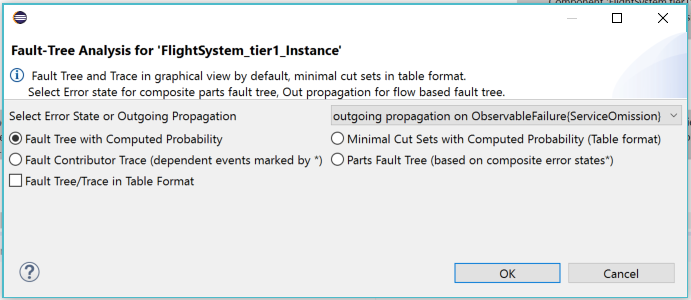
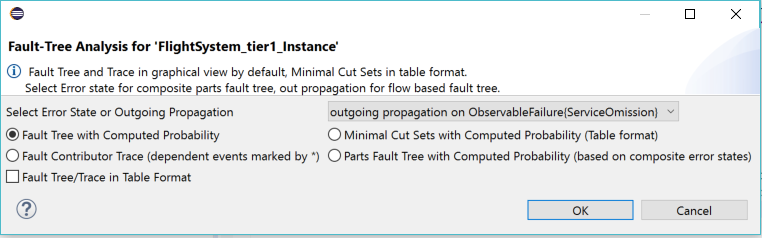
minor tweak in FTA dialog box.

Changed region(s): [[0.0, 0.0, 1.0, 1.0], [0.8205, 0.0588, 0.8509, 0.0882]]

diff --git a/emv2/org.osate.aadl2.errormodel.faulttree.generation/src/org/osate/aadl2/errormodel/faulttree/handler/FTADialog.java b/emv2/org.osate.aadl2.errormodel.faulttree.generation/src/org/osate/aadl2/errormodel/faulttree/handler/FTADialog.java
@@ -45,7 +45,7 @@ public class FTADialog extends TitleAreaDialog {
 		super.create();
 		setTitle("Fault-Tree Analysis" + (target.isEmpty() ? "" : " for " + target));
 		setMessage(
-				"Fault Tree and Trace in graphical view by default, minimal cut sets in table format.\nSelect Error state for composite parts fault tree, Out propagation for flow based fault tree.",
+				"Fault Tree and Trace in graphical view by default, Minimal Cut Sets in table format.\nSelect Error state for composite parts fault tree, out propagation for flow based fault tree.",
 				IMessageProvider.INFORMATION);
 	}
 
@@ -79,7 +79,7 @@ public class FTADialog extends TitleAreaDialog {
 		faultTraceBox.setText("Fault Contributor Trace (dependent events marked by *)");
 		faultTraceBox.setSelection(false);
 		compositePartsBox = new Button(container, SWT.RADIO);
-		compositePartsBox.setText("Parts Fault Tree based on composite error states (was RBD)");
+		compositePartsBox.setText("Parts Fault Tree with Computed Probability (based on composite error states)");
 		compositePartsBox.setSelection(false);
 		ftTableBox = new Button(container, SWT.CHECK);
 		ftTableBox.setText("Fault Tree/Trace in Table Format");

diff --git a/emv2/org.osate.aadl2.errormodel.contrib/doc/safetyanalysis.md b/emv2/org.osate.aadl2.errormodel.contrib/doc/safetyanalysis.md
@@ -152,7 +152,7 @@ The table view of a fault tree shows the fault tree events hierarchically nested
 ###Error State-based Composite Parts Fault Tree Generation
 
 One use early in the process is a composite parts fault tree generation. In this case users define a parts model, i.e., identify the parts of each system, and specify how the error states of the parts relate to the error states of the enclosing system through composite state declarations. Note that user can define such a model with error state machines at multiple level of a system architecture. Users also do not have to specify an error state machine for each level. Instead a higher level state can be expressed in terms of subsystems more than one level down. 
->This is similar to specifying reliability block diagrams in a compositional manner, where the logic of the composite error behavior state corresponds to the logic represented graphically by parallel and serial blocks.
+>This is similar to specifying reliability block diagrams (RBD) in a compositional manner, where the logic of the composite error behavior state corresponds to the logic represented graphically by parallel and serial blocks. It replaces the RBD command previous versions of OSATE supported.
 
 An example of a composite error behavior state declaration is shown here. 
 > In EMV2 the **1 ormore** operator is used to indicate **inclusive oOr**, while the EMV2 **Or** operator represents **exclusive or**.
